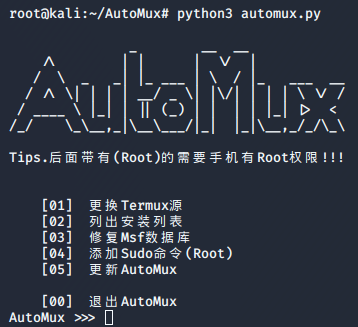
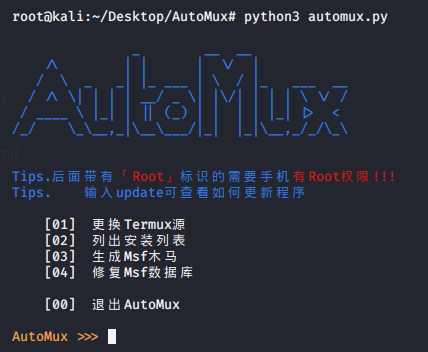
update

diff --git a/automux.py b/automux.py
@@ -28,8 +28,8 @@ def main():
         else:
             print(colored("\n输入错误，请重新输入！","red"))
             timeout(2)
-            restart()
-    
+            restart()   
+
     elif automux.strip() == "2" or automux.strip() == "02":
         print("\n    [01]  Nmap")
         print("    [02]  Hydra")
@@ -51,11 +51,13 @@ def main():
             restart()           
     elif automux.strip() == "3" or automux.strip() == "03":msf_mm()
     elif automux.strip() == "4" or automux.strip() == "04":repair_msf()
-    elif automux.split() == "update":
-        os.system("cd $PREFIX/share/AutoMux")
-        os.system("chmod +x update.sh")
-        os.system("./update.sh")
     elif automux.strip() == "0" or automux.strip() == "00" or automux.strip() == "exit":sys.exit()
+    elif automux.strip() == "update":
+        print(colored("1. cd $PREFIX/share/AutoMux","green") + colored("    #$PREFIX必须是大写!","red"))
+        print(colored("2. git stash && git pull","green"))
+        print(colored("AutoMux将在5秒后关闭，以便您更新AutoMux","green"))
+        timeout(5)
+        sys.exit()
     else:
         print(colored("\n输入错误，请重新输入！\n","red"))
         timeout(2)

diff --git a/Module/AMcore.py b/Module/AMcore.py
@@ -13,12 +13,12 @@ AM_banner =  """
  / ____ \ |_| | || (_) | |  | | |_| |>  < 
 /_/    \_\__,_|\__\___/|_|  |_|\__,_/_/\_\\
 
-Tips.后面带有(Root)的需要手机有Root权限!!!
-
 """                                       
 
 def banner():
-    print(AM_banner)
+    print(colored(AM_banner,"blue"))
+    print(colored("Tips.后面带有","blue") + colored("「Root」","red") + colored("标识的需要手机","blue")+colored("有Root权限!!!","red"))
+    print(colored("Tips.    输入update可查看如何更新程序\n","blue"))
 
 def restart():
 	python = sys.executable
